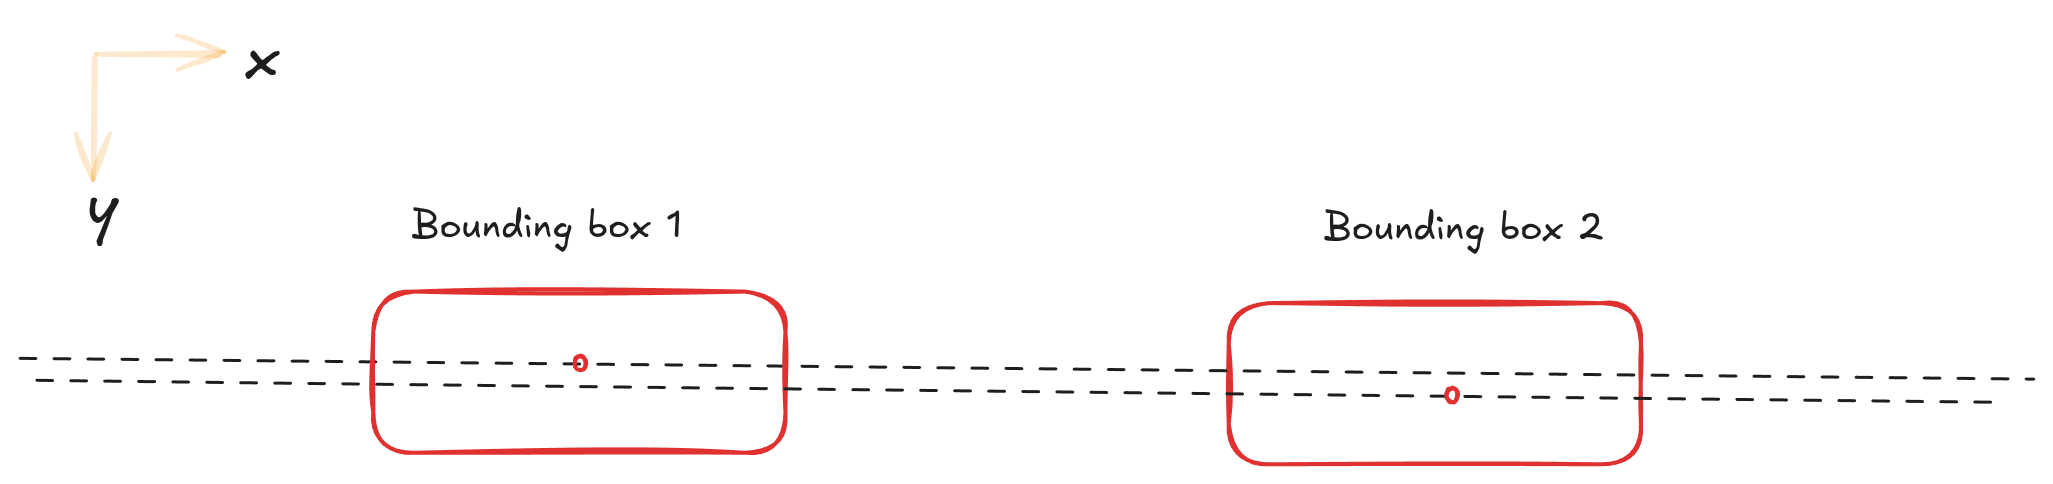
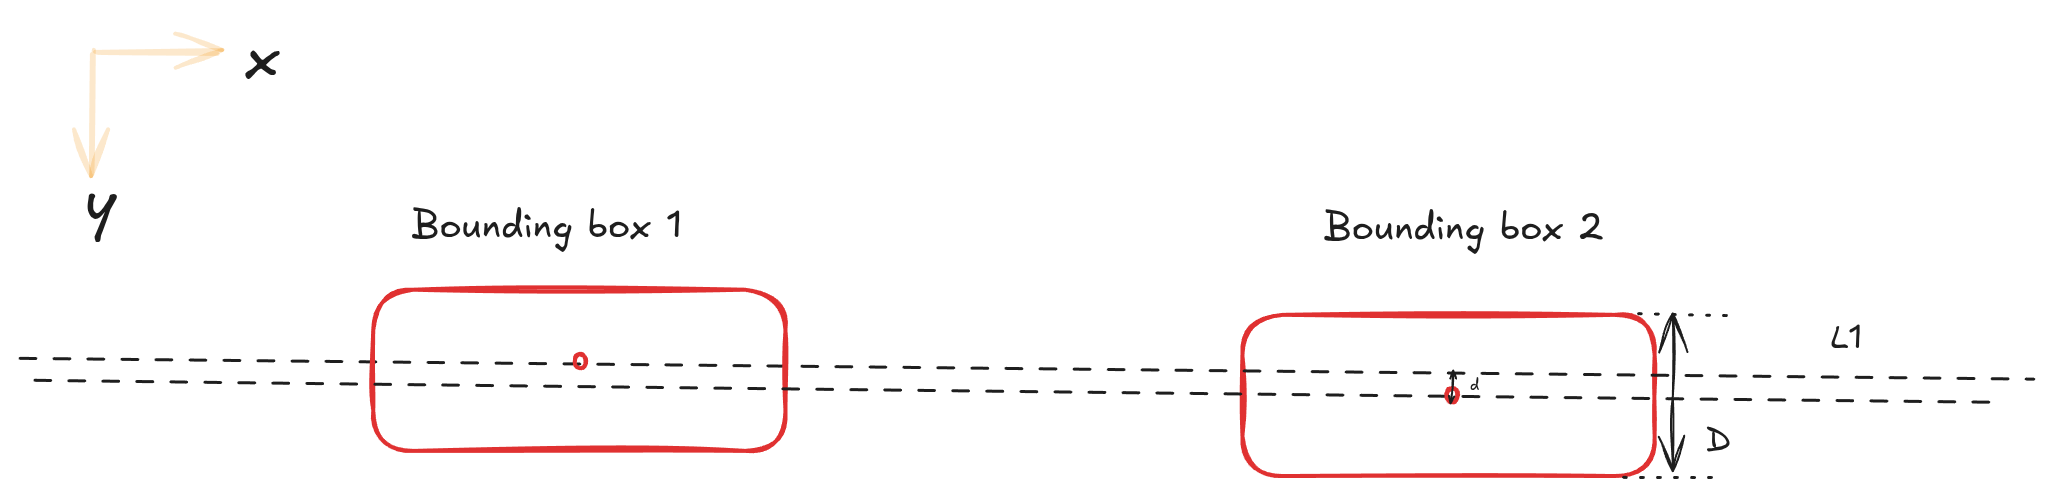
README update + removing unused func args

diff --git a/bbox_align/main.py b/bbox_align/main.py
@@ -82,7 +82,7 @@ def resolution_score(overlapped_bbox: BoundingBox, bbox: BoundingBox) -> float:
         perpendicular_distance
     ])
 
-def resolve_overlaps(bboxes: List[BoundingBox], line: Line, words) -> Lines:
+def resolve_overlaps(bboxes: List[BoundingBox], line: Line) -> Lines:
 
     if not has_any_overlap(line, bboxes):
         return [line]
@@ -111,8 +111,8 @@ def resolve_overlaps(bboxes: List[BoundingBox], line: Line, words) -> Lines:
         else:
             second_line.append(idx)
 
-    first_line_resolved = resolve_overlaps(bboxes, first_line, words)
-    second_line_resolved = resolve_overlaps(bboxes, second_line, words)
+    first_line_resolved = resolve_overlaps(bboxes, first_line)
+    second_line_resolved = resolve_overlaps(bboxes, second_line)
 
     return first_line_resolved + second_line_resolved
 
@@ -133,7 +133,6 @@ def update_inlines(inlines: InLines, line: Line, resolved_lines: Lines):
 def get_lines(
     inlines: InLines,
     bboxes: List[BoundingBox],
-    words,
     allow_overlaps
 ) -> Lines:
 
@@ -147,7 +146,7 @@ def get_lines(
         line = get_line(inlines, next_idx)
 
         if not allow_overlaps and has_any_overlap(line, bboxes):
-            resolved_lines = resolve_overlaps(bboxes, line, words)
+            resolved_lines = resolve_overlaps(bboxes, line)
             # Update inlines as pass-by-reference
             update_inlines(inlines, line, resolved_lines)
             lines.extend(resolved_lines)
@@ -161,7 +160,6 @@ def get_lines(
 def process_with_meta_info(
     vertices: BBoxVertices,
     boundaries: List[Tuple[Number, Number]],
-    words,
     allow_overlaps: bool = False,
 ) -> Tuple[Lines, InLines, PassThroughs, PointOfIntersections]:
 
@@ -179,7 +177,7 @@ def process_with_meta_info(
 
     # inlines will get updated by pass-by-reference
     # in this step when resolving overalps in a line
-    lines = get_lines(inlines, bboxes, words, allow_overlaps)
+    lines = get_lines(inlines, bboxes, allow_overlaps)
     sorted_lines = sort(lines, bboxes, allow_overlaps)
 
     return sorted_lines, inlines, passthroughs, pois

diff --git a/bbox_align/types.py b/bbox_align/types.py
@@ -1,11 +1,16 @@
-from .geometry import Number, Point, Line as GeometryLine
+from .geometry import (
+    Number,
+    Point,
+    Line as GeometryLine # noqa
+)
 from typing import Tuple, List, Optional, Union
 
-# ### Geometry related #######
+
+##### Geometry related #######
 Coords = Tuple[Number, Number]
 ###############################
 
-# ###### Line ################
+######## Relationshipd ########
 PointOfIntersections = List[
     List[Union[Point, None]]
 ]
@@ -15,11 +20,14 @@ PassThroughs = List[
 InLines = List[
     List[bool]
 ]
+#############################
+
+######## Line ########
 Line = List[int]
 Lines = List[Line]
-# ###########################
+######################
 
-# Vertex #####################
+######### Vertex ############
 Vertices = Tuple[
     Coords,
     Coords,
@@ -29,4 +37,3 @@ Vertices = Tuple[
 ]
 BBoxVertices = List[Vertices]
 #############################
-

diff --git a/README.md b/README.md
@@ -114,9 +114,53 @@ Total Usage CCF 30 Days         158                 2008              2009
   </tr>
 </table>
 
-## Concept
+## Workings
 Two bounding boxes are considered inline if the y-coordinate of one box's vertical center lies within the top and bottom bounds of the other box.
+i.e `d <= D/2`. To prevent skewed bounding boxes from being inline, the slope difference must be within `5°`.
 
 <img src="https://raw.githubusercontent.com/doctor-entropy/bbox-align/main/images/parallel.png" alt="parallel" style="width:1000px;"/>
 
+If there are distortions, the above check fails. So we can find the Point of intersection (poi) instead and compute a harmonic mean score using
+1. `(d1 + d2)/2`
+2. absolute vertical distance between `m1` and `m2`.
+This gives a balanced vertical score.
+
+A bounding box is inline with another bounding box with lowest score.
+
 <img src="https://raw.githubusercontent.com/doctor-entropy/bbox-align/refs/heads/main/images/poi.png" alt="poi" style="width:1000px;"/>
+
+Any overlaps within a line are resolved also using harmonic mean score of perpendicular distance and vertical distance between overlapping bounding boxes.
+
+## Debugging
+To dig deeper into what bounding boxes are inline, you can use `bbox_align.process_with_meta_info` to get meta related informations and pretty print them using `bbox_align.pprint_matrix`
+
+```py
+# For the above example
+lines, inlines, passthroughs, pois = process_with_meta_info(vertices, endpoints)
+
+pprint_matrix(matrix=passthroughs, words=words, idxs=[51, 52, 57, 58])
+'''
+          Sales     Tax       $    2.53
+  Sales    True    True   False   False
+    Tax    True    True   False   False
+      $   False   False    True    True
+   2.53   False   False    True    True
+'''
+# points of intersections
+pprint_matrix(matrix=pois, words=words, idxs=[51, 52, 57, 58])
+'''
+                                Sales                Tax                  $               2.53
+             Sales               None      (26.9, 357.2)   (204.17, 347.35)   (200.76, 347.54)
+               Tax      (26.9, 357.2)               None   (218.02, 348.89)   (215.73, 348.99)
+                 $   (204.17, 347.35)   (218.02, 348.89)               None   (240.37, 351.37)
+              2.53   (200.76, 347.54)   (215.73, 348.99)   (240.37, 351.37)               None
+'''
+pprint_matrix(matrix=inlines, words=words, idxs=[51, 52, 57, 58])
+'''
+          Sales     Tax       $    2.53
+  Sales    True    True   False   False
+    Tax    True    True   False    True
+      $   False   False    True    True
+   2.53   False    True    True    True
+'''
+```
